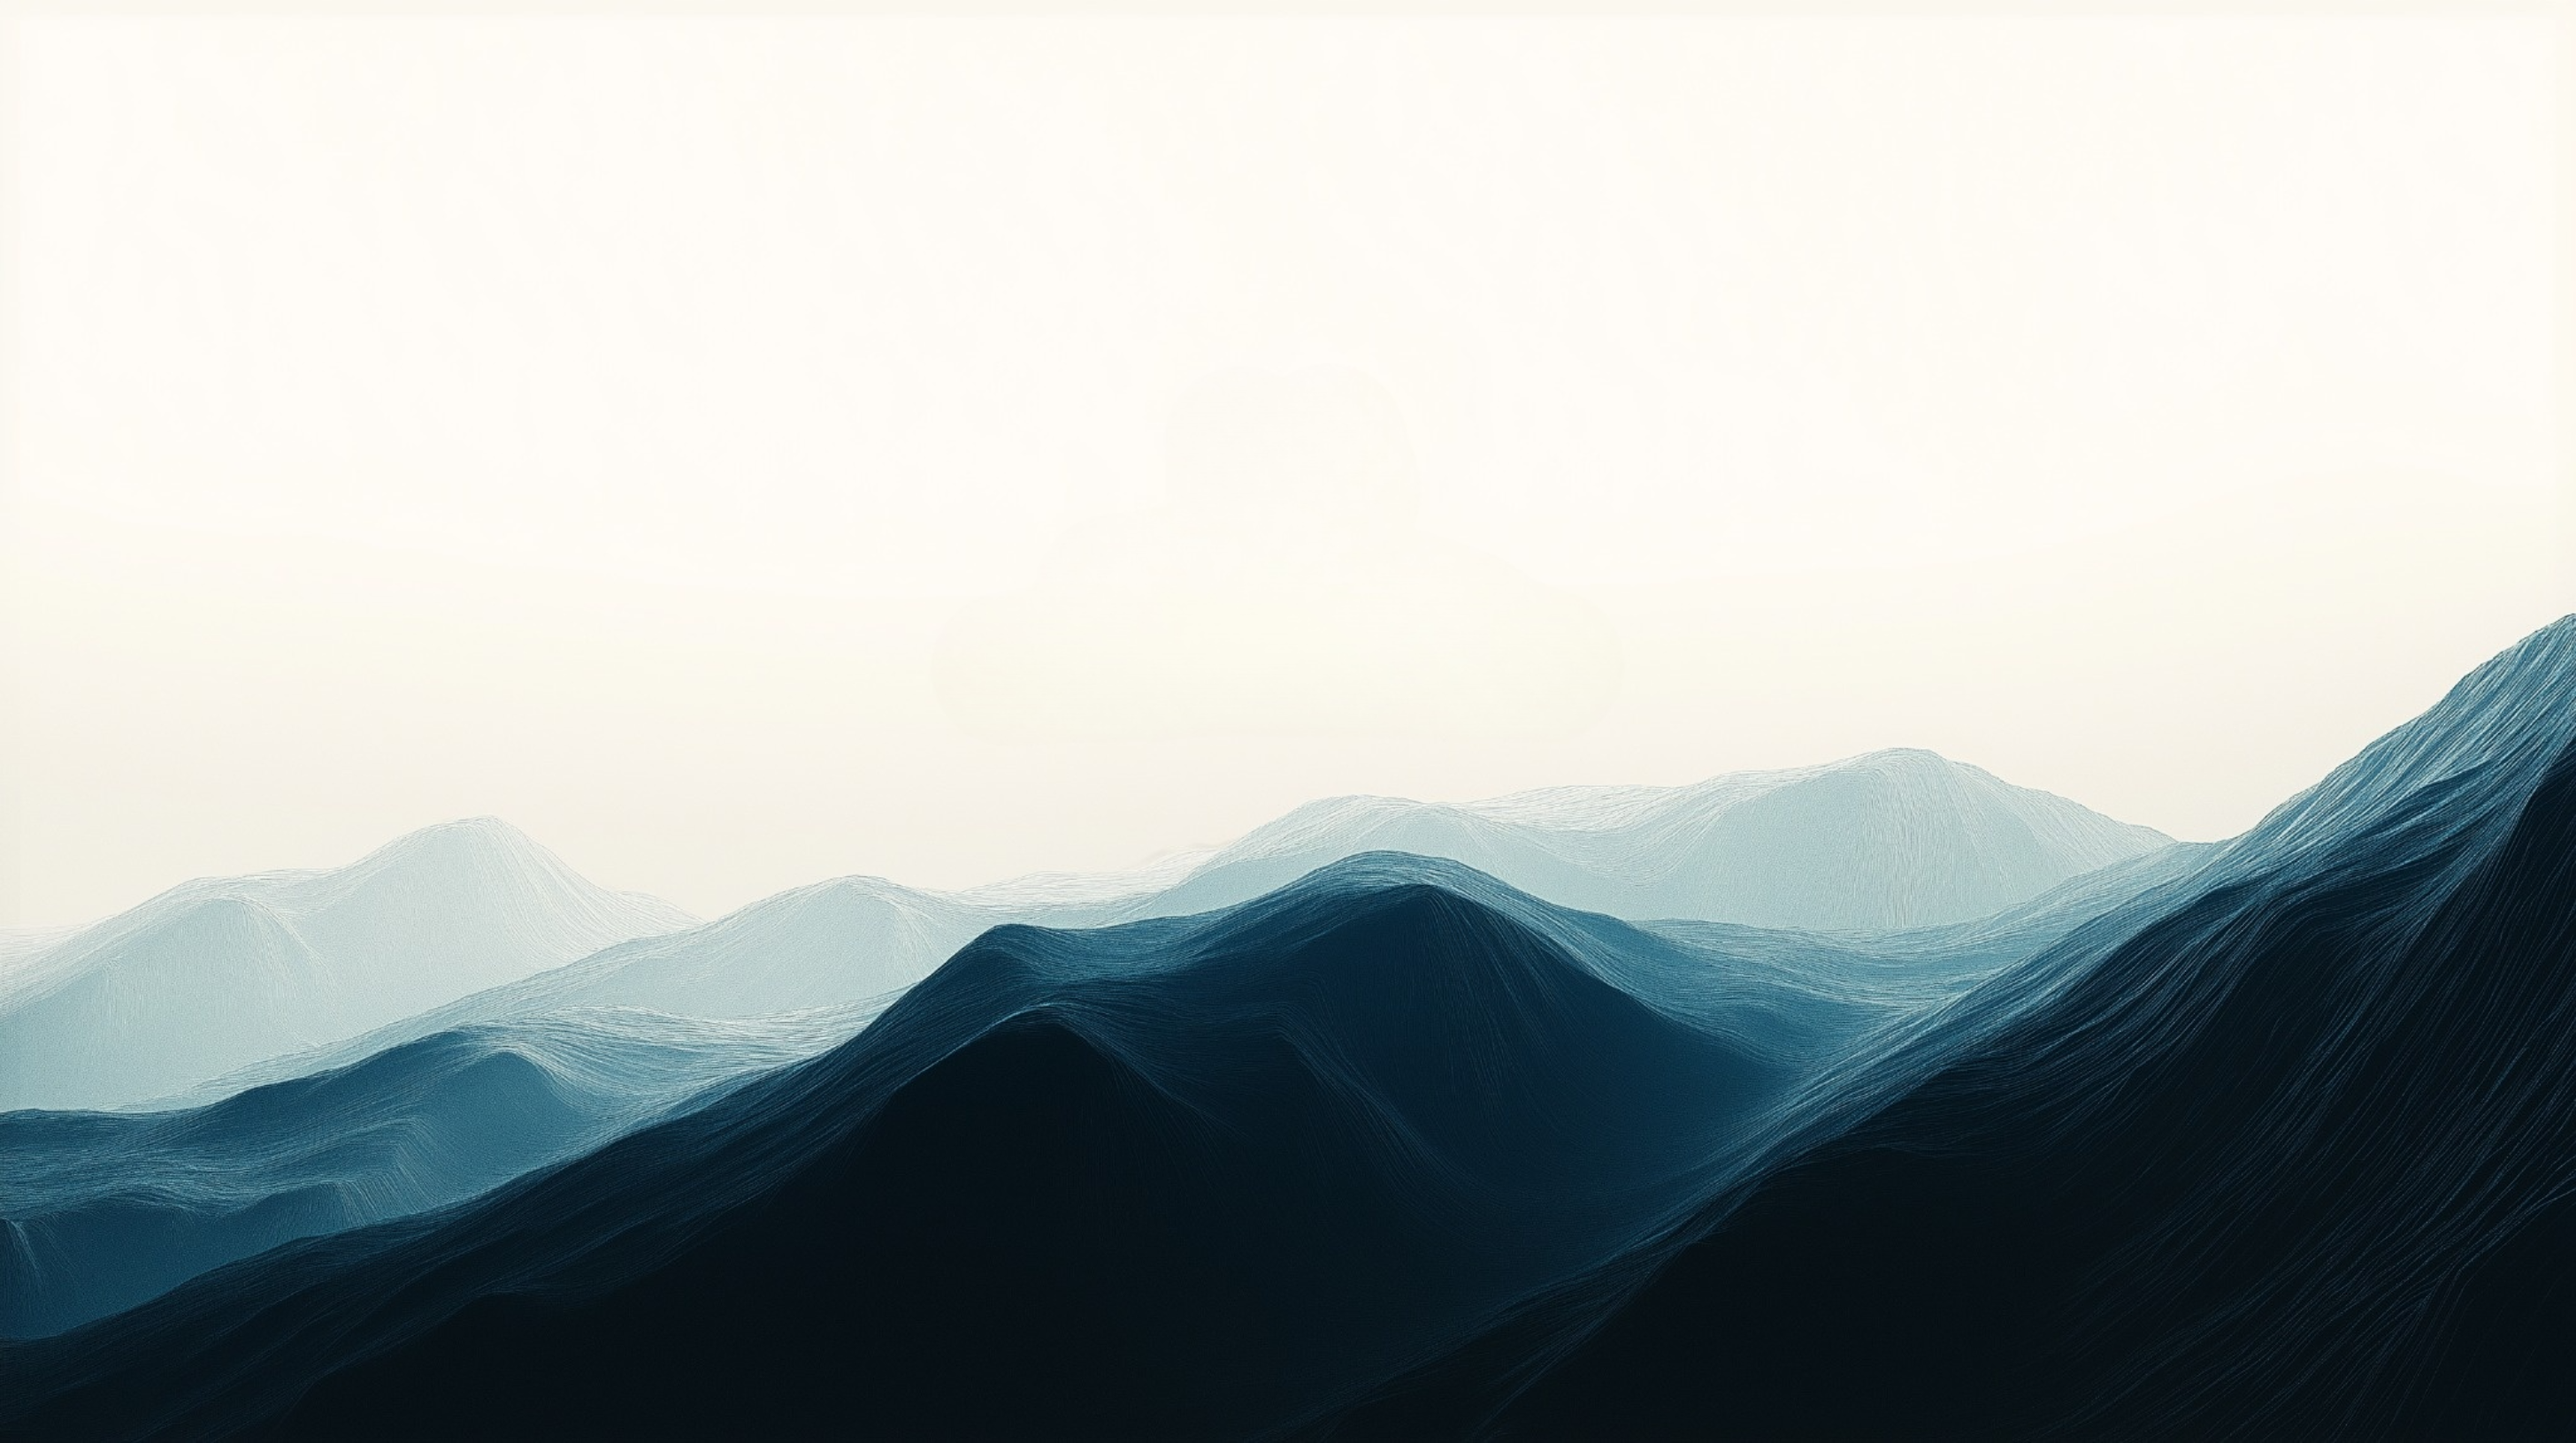
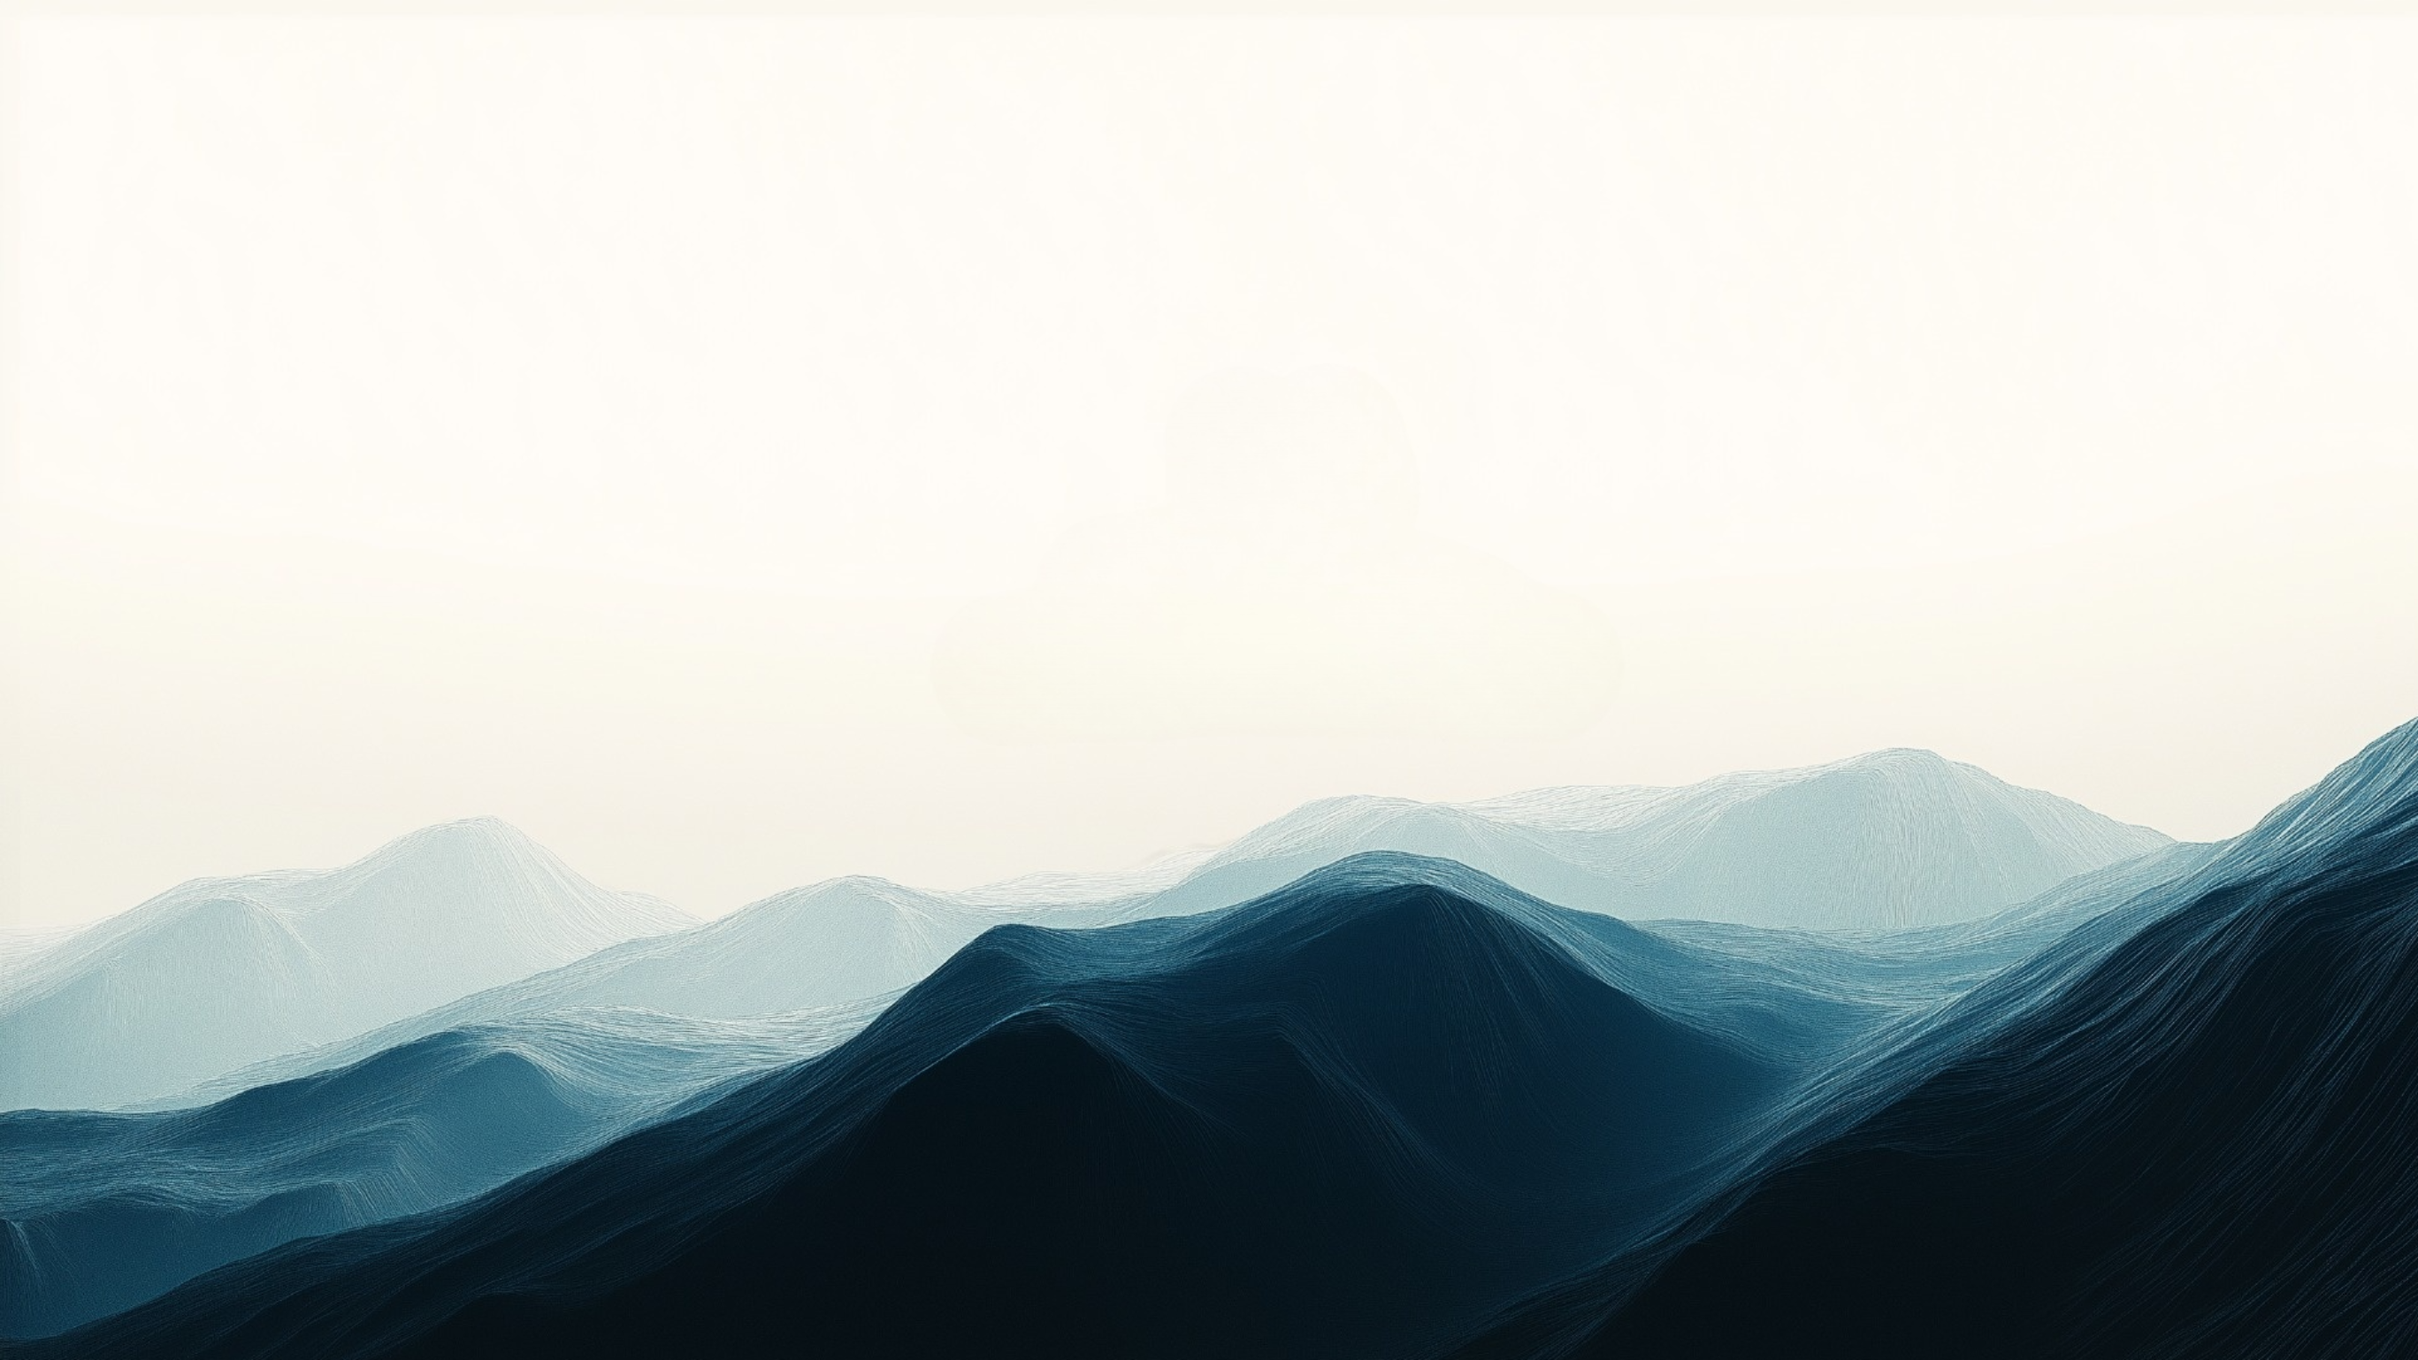
edits to first page

Changed region(s): [[0.0, 0.4057, 1.0, 0.9987]]

diff --git a/index.html b/index.html
@@ -54,12 +54,12 @@
     <div class="black-overlay"></div>
     <div class="col-12 container">
         <div class="row container">
-            <div class="col-md-6 container d-flex justify-content-center align-items-center">
+            <div class="col-md-6 container d-flex justify-content-center align-items-center profile-picture-container">
                 <div class="rounded-circle test overflow-hidden" style="width: 250px; height: 250px;">
                     <img src="./static/headshots/headshot.jpg" alt="My Headshot" class="img-fluid" style="width: 250px; height: 250px;">
                 </div>
             </div>
-            <div class="col-12 container">
+            <div class="col-12 text-container">
                 <h1 id='nameTitle' class="title-text-color-one constant-illuminate">Oliver Jenkins</h1>
             </div>
         </div>
@@ -69,26 +69,26 @@
             </div>
         </div>
 
-        <div class="container">
-            <div id='mediaTitle' class="row justify-content-center">
-                <div class="col-lg-3 col-md-4 col-sm-6">
-                    <div class="d-flex justify-content-around">
-                        <a href="https://www.linkedin.com/in/obj809/" target="_blank">
-                            <div class="icon-container icon-illuminate">
-                                <i class="fa-brands fa-linkedin fa-2x icon-black"></i>
-                            </div>
-                        </a>
-                        <a href="https://github.com/cyberforge1" target="_blank">
-                            <div class="icon-container icon-illuminate">
-                                <i class="fab fa-github-square fa-2x icon-black"></i>
-                            </div>
-                        </a>
-                        <a href="https://x.com/CyberForge01" target="_blank">
-                            <div class="icon-container disabled icon-illuminate">
-                                <i class="fa-brands fa-square-x-twitter fa-2x icon-black"></i>
-                            </div>
-                        </a>
-                    </div>
+        <!-- Social Icons Section -->
+    <div class="container">
+        <div id="mediaTitle" class="row justify-content-center">
+            <div class="col-lg-3 col-md-4 col-sm-6">
+                <div class="d-flex justify-content-around social-icons-container">
+                    <a href="https://www.linkedin.com/in/obj809/" target="_blank">
+                        <div class="icon-container icon-illuminate">
+                            <i class="fa-brands fa-linkedin fa-2x icon-black"></i>
+                        </div>
+                    </a>
+                    <a href="https://github.com/cyberforge1" target="_blank">
+                        <div class="icon-container icon-illuminate">
+                            <i class="fab fa-github-square fa-2x icon-black"></i>
+                        </div>
+                    </a>
+                    <a href="https://x.com/CyberForge01" target="_blank">
+                        <div class="icon-container disabled icon-illuminate">
+                            <i class="fa-brands fa-square-x-twitter fa-2x icon-black"></i>
+                        </div>
+                    </a>
                 </div>
             </div>
         </div>

diff --git a/styles.css b/styles.css
@@ -41,7 +41,7 @@ section {
 #nameTitle {
   font-family: 'Montserrat', sans-serif;
   font-weight: 500;
-  font-size: 3rem;
+  font-size: 2rem;
   color: rgb(33, 36, 41);
 }
 
@@ -50,6 +50,48 @@ section {
   font-weight: 400;
   font-size: 1.5rem;
   color: rgb(33, 36, 41);
+}
+/* Profile Picture Container */
+.profile-picture-container {
+  margin-bottom: 20px;
+}
+
+/* Profile Info Container - Ensures even vertical spacing */
+.profile-info-container {
+  display: flex;
+  flex-direction: column;
+  align-items: center;
+  justify-content: space-evenly;
+  height: 300px; /* Adjust this value based on design preference */
+  margin-top: 15px;
+}
+
+/* Name Style */
+.name-style {
+  font-family: 'Montserrat', sans-serif;
+  font-weight: 600;
+  font-size: 3rem;
+  color: black;
+  margin: 0; /* Remove default margin */
+}
+
+/* Job Title Style */
+.job-style {
+  font-family: 'Lato', sans-serif;
+  font-weight: 400;
+  font-size: 1.5rem;
+  color: black;
+  margin: 0; /* Remove default margin */
+}
+
+/* Social Icons Container */
+.social-icons-container {
+  gap: 20px; /* Adds space between icons */
+}
+
+/* Icon Container - Hover Effect */
+.icon-container {
+  transition: transform 0.3s ease, color 0.3s ease;
 }
 
 
@@ -80,7 +122,7 @@ section {
   height: 100vh;
   background: 
     linear-gradient(to bottom, rgba(215, 220, 225, 0.1), rgba(190, 195, 200, 0.2)), 
-    url('static/backgrounds/waves-1.png');
+    url('static/backgrounds/waves-3.png');
   background-size: cover;
   background-position: center;
   animation: fadeIn 1s ease-in-out forwards;
@@ -89,7 +131,7 @@ section {
 .first_page .col-12.container {
   position: relative;
   /* Adjust the position upward */
-  transform: translateY(-20%);
+  transform: translateY(-5%);
 }
 
 .black-overlay {
@@ -337,20 +379,20 @@ section {
 }
 
 #nameTitle {
-  margin-top: 3%;
+  margin-top: 1.5%;
   font-size: 3em;
   line-height: 1; /* Adjust line height */
 }
 
 #jobTitle {
-  margin-top: 1%;
+  margin-top: 1.5%;
   font-size: 30px;
   margin-bottom: 1%;
   line-height: 1; /* Adjust line height */
 }
 
 #mediaTitle {
-  margin-top: 25px;
+  margin-top: 1.5%;
 }
 
 #projectTitleSpacing {
